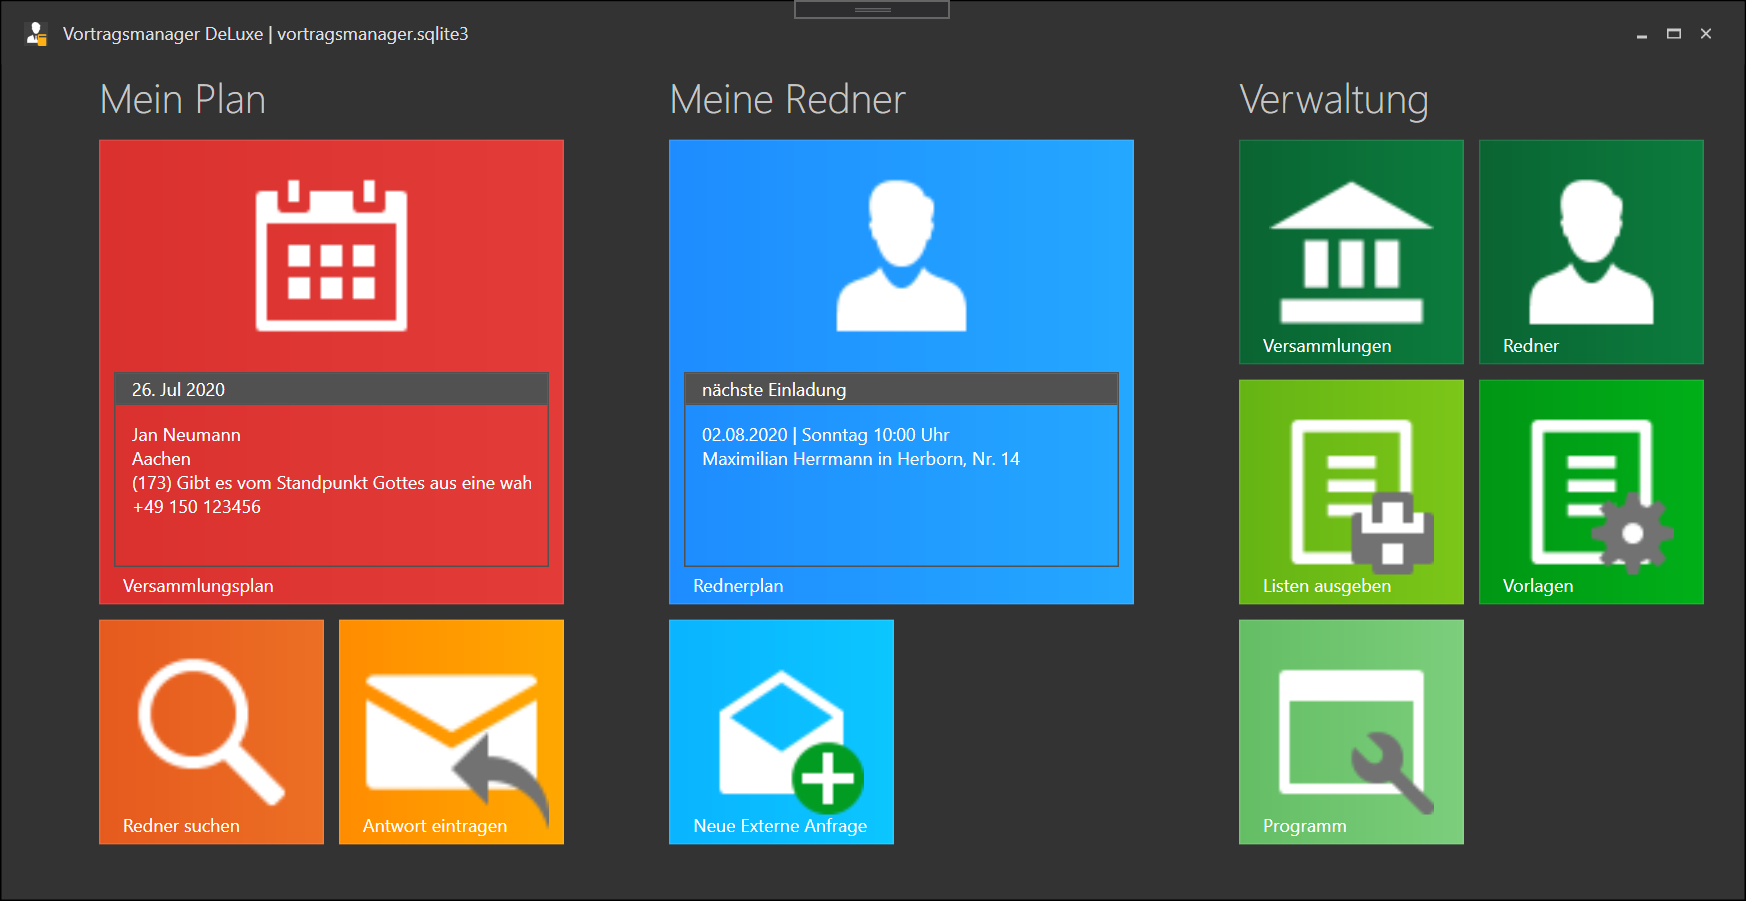
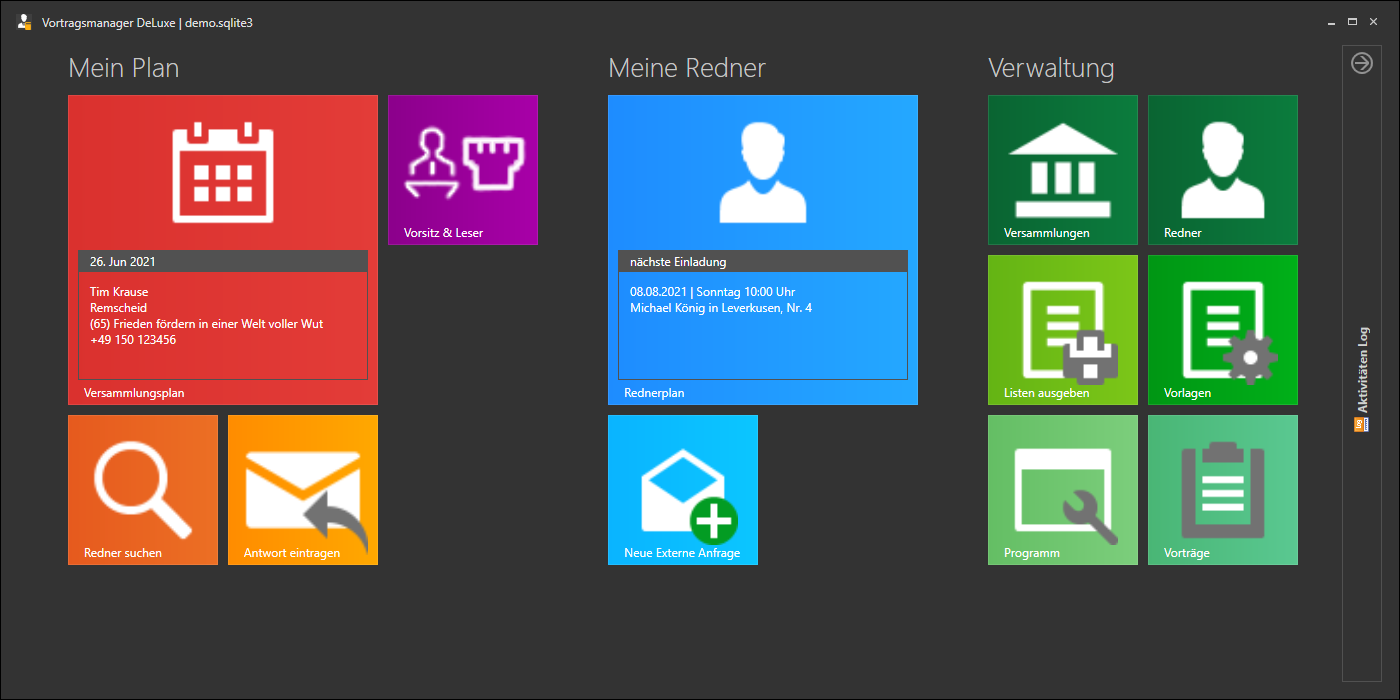
Dokumentation

diff --git a/docs/Versammlungen.md b/docs/Versammlungen.md
@@ -52,7 +52,7 @@ Zuteilungen der Vergangenheit werden dann abgeändert, der Vortrag bleibt weiter
 
 ### Rednerliste
 
-Die Redner können auch über das Hauptmenü [Redner](Redner.md) angezeigt und bearbeitet werden.
+Die Redner können auch direkt über das Hauptmenü [Redner](Redner.md) angezeigt und aufgerufen werden.
 
 Im rechten Bereich werden die angelegten Redner angezeigt. Dargestellt werden folgende Informationen:
 
@@ -60,49 +60,7 @@ Im rechten Bereich werden die angelegten Redner angezeigt. Dargestellt werden fo
 * Ältester / DAG (blau/rot) zeigt an ob er Ältester oder Dienstamtgehilfe ist
 * Darunter werden seine ausgearbeiteten Vortragsnummern angezeigt.
 
-Klickt man auf einen Redner, oder klickt auf die Schaltfläche "Neuen Redner anlegen" wechselt das Programm in die Detailansicht eines Redners, in der die Informationen zum Redner auch direkt bearbeitet werden können.
+Klickt man auf einen Redner, oder klickt auf die Schaltfläche "Neuen Redner anlegen" wechselt das Programm zu der Kachel "Redner" in der die Informationen zum Redner bearbeitet werden können.
 
-## Redner
-
-![Redner bearbeiten](images/verwaltung_21.png)
-
-In der Titelleiste wird der Name des Redners hervorgehoben, Mit einem Klick auf die Titelleiste wird zwischen der Übersicht- und der Detailansicht gewechselt.
-
-### Daten des Redner
-
-Zuerst können drei Informationen eingestellt werden:
-
-* Typ (Ältester oder Dienstamtgehilfe)
-* Aktiv (kann eingeladen werden oder nicht)
-* Einladen (Ja / Nein)
-
-    Möchte ich einen Vortragsredner zukünftig nicht mehr einladen, könnte ich natürlich auch den Status von Aktiv auf Inaktiv ändern. Für die Programmverwaltung hätte das den gleichen effekt. Bekomme ich aber später eine aktualisierte Rednerliste, ist es für mich evtl. nicht mehr so einfach nachvollziehbar ob der Redner der Liste der bei mir auf Inaktiv steht von seiner Seite aus Inaktiv war und jetzt wieder Vorträge halten kann, oder ob ich ihn damals auf "Inaktiv" gesetzt hatte. 
-    Über den Status Einladen Ja/Nein ist diese Information nachhaltiger erfasst.
-
-Danach werden die Kontaktinformationen des Redners erfasst. Der öffentliche Hinweis wird aktuell nicht genutzt, es ist aber gedacht ihn in Aushängen oder in Mailtexten mit ausgeben zu lassen.
-
-Die vertrauliche Notiz wird nur im Vortragsmanager selber angezeigt, aber in keinen Listen mit ausgegeben werden.
-
-### Redner Aktionen
-
-* Redner löschen
-
-* Redner verschieben
-
-    Hier kann ein Redner (z.B. nach Versammlungswechsel) einer anderen Versammlung zugeordnet werden. Seine Vortragseinladungen (historische und zukünftige) bleiben dabei gespeichert.
-
-### Vorträge
-
-Die Liste der Vorträge die ein Diener ausgearbeitet hat.
-
-* gewählten Vortrag löschen - Löscht den gewählten Vortrag aus der Liste
-
-* Neuen Vortrag hinzufügen - wähle einen Vortrag aus der Liste aus und füge ihn der Liste hinzu. Im Menü werden dir Vortragsnummer und Thema angezeigt.
-
-* Kommagetrennte Liste von Vorträgen - trage hier Komma-, Semikolon- oder mit Leerzeichen getrennt die Vortragsnummern ein die ein Redner hat und füge sie mit einem Klick alle gleichzeitig zu der Liste seiner ausgearbeiteten Vorträge hinzu.
-
-### Abwesenheiten
-
-UNDER CONSTRUCTION
 
 [zurück](Verwaltung.md){: .btn .btn--inverse}  [weiter](Redner.md){: .btn .btn--inverse}

diff --git a/docs/Startseite.md b/docs/Startseite.md
@@ -1,0 +1,50 @@
+---
+title: "Die Übersicht"
+---
+
+Startest du den Vortragsmanager wird dir die Zentrale Startseite des Programm angezeigt, von der du aus in alle Bereiche gehen kannst.
+Du hast 4 verschiedene Möglichkeiten wie du starten kannst.
+
+![Startseite](images/startseite_01.png)
+
+Jede Kachel führt zu einer Funktion im Programm. Die Kacheln sind in 3 Bereiche aufgeteilt:
+Links dir Kacheln in den rötlichen Tönen haben alle mit der Planung für deine eigene Versammlung zu tun. Sie tragen die Überschrift "Mein Plan"
+In der Mitte sind die Kacheln in den blautönen, für die Planung deiner Redner in anderen Versammlungen. Sie sind unter "Meine Redner" zusammengefasst.
+Rechts sind die Kacheln der Kategorie "Verwaltung" in den grünen Kacheln mit allen anderen Themen.
+
+## Mein Plan ##
+
+* [Versammlungsplan](MeinPlan.md): Die Rote Kachel ist der Hauptbereich für deine Planung. Hier siehst du deine aktuelle Planung und kannst sie auch pflegen.
+* [Redner suchen](MeinPlan.md#redner-suchen): Hier findest du die Vorträge und Redner die du schon länger nicht mehr gehört hast und kannst Einladungsmails generieren.
+* [Antwort eintragen](MeinPlan.md#antwort-eintragen): Hat jemand auf deine Einladung geantwortet, trägst du hier die Antwort ein. Dein Versammlungsplan wird dann aktualisiert.
+* [Vorsitz & Leser](WeiterePlannungen.md): Da die Planung von Vorsitz & Leser meistens auch dem Vortragskoordinator zufällt, kannst hier diese Planung vornehmen.
+ 
+## Meine Redner ##
+
+* [Rednerplan](MeineRedner.md): Hier siehst du die Vortragstermine aller deiner Redner
+* [Neue Externe Anfrage](ExterneAnfrage.md): Fragt eine andere Versammlung einen Redner an, kannst du hier prüfen ob er zur Verfügung steht und in deine Planung eintragen.
+
+## Verwaltung ##
+
+* [Versammlungen](Versammlungen.md): Verwaltung aller Versammlungen und Kontaktdaten der Koordinatoren mit denen du Redner austauschen willst.
+* [Redner](Redner.md): Verwaltung der Redner in den Versammlungen mit den Vorträgen die sie halten.
+* [Listen ausgeben](ListenAusgeben.md): Diverse Listen, wie einen Aushang deiner Planung, Rednerlisten zum austausch mit anderen Koordinatoren, etc.
+* [Vorlagen](Vorlagen.md): Hier werden die Mailvorlagen angepasst, z.B. deine Signatur
+* [Programm](ProgrammEinstellungen.md): Allgemeine Programmeinstellungen
+* [Vorträge](Vortragsthemen.md): Liste aller Vorträge, die Themen können hier angepasst werden.
+
+# Unterseiten #
+
+Mit einem Klick auf die Kachel kommst du in den Anzeige- oder Bearbeitungsmodus des jeweiligen Themas.
+Die Unterseiten haben alle das gleiche Navigations-Menü im oberen Bereich
+
+![Navigation](images/navigation_01.png)
+
+* Der Pfeil nach links bringt dich zurück zum letzten Bildschirm, meistens ist das die Startseite.
+* Daneben steht der Name des aktuellen Fenster in dem du dich gerade befindest.
+* im rechten Bereich hast du 5 Verknüpfungen auf Kacheln die du oft benötigst
+** Startseite (orange) bringt dich immer zurück zur Startansicht
+** "Mein Plan", "Meine Redner", "Redner suchen", "Versammlungen" bringt dich zur jeweiligen Kachel
+
+
+[zurück](Initialisierung.md){: .btn .btn--inverse}  [weiter](MeinPlan.md){: .btn .btn--inverse}

diff --git a/README.md b/README.md
@@ -5,20 +5,25 @@ war ich erstmal aufgeschmissen,
 denn das umstellen meiner Planung auf Excel-Tabellen hat gar nicht geklappt.  
 Auch andere Programme konnten meine Wünsche nicht so recht erfüllen.
 Deshalb habe ich (in erster Linie für mich selbst) angefangen dieses Programm zu schreiben. 
-Die Zielsetzung ist:
-* Suche nach Rednern die lange nicht bei mir waren
-* Suche nach Vorträgen die schon länger nicht gehört wurden
-   Wie kann ich sicherstellen das ich den Vortrag nicht gerade schon gehört habe, oder in der Zukunft bereits eingeplannt ist
-* Übersicht über meine Jahresplannung (welche Termine sind noch frei)
-* Verwaltung meiner Redner
-* Die Kommunikation mit den anderen Koordinatoren soll per Mail erfolgen (am besten jwpub), 
-deshalb sollen Vorgänge eine vereinfachte Möglichkeit haben die Informationen in das Mailsystem zu kopieren.
-* Mehrere Redner und Vorträge auf einmal per Mail anfragen
-   Diese Anfragen speichern, damit ich nicht Termine oder Themen doppelt anfrage.
-* Optional wäre es natürlich schön wenn möglichst viele Koordinatoren das Programm benutzen und in die Mail ein Code eingefügt wird, 
-denn das Programm auslesen kann.
+
+## Screenshots ##
+<div class="gallery gallery-cols-3">
+    <figure>
+        <img src="docs/images/startseite_01.png" alt="Image 1">
+        <figcaption>Image 1</figcaption>
+    </figure>
+    <figure>
+        <a href="docs/images/startseite_01.png"><img src="docs/images/startseite_01.png" alt="Image 2">
+        <figcaption>Image 2</figcaption></a>
+    </figure>
+    <figure>
+        <img src="docs/images/startseite_01.png" alt="">
+    </figure>
+</div>
 
 ## Entwicklungsstand ##
+
+![Startseite](docs/images/startseite_01.png)
 
 Das Programm ist bei mir persönlich für meine Vortragsplanung seit 2019 im Einsatz. Inzwischen sind alle Funktionen die ich benötige im Programm eingebunden.
 Aufgrund unterschiedlicher Arbeitsweisen und Anforderungen an so einem Programm kann es natürlich sein das eine Funktion die dir wichtig wäre nicht vorhanden ist.

diff --git a/docs/MeinPlan.md b/docs/MeinPlan.md
@@ -210,4 +210,4 @@ Außerdem hast du hier die Möglichkeit den Original-Mailtext der generiert wurd
 
 Dieser Dialog kann auch über "Mein Plan" aufgerufen werden. Wählt man hier eine offene Anfrage und dann über das Kontextmenü "bearbeiten" aus, wird der gleiche Dialog geöffnet, aber nur die relevante Anfrage angezeigt.
 
-[zurück](Installation.md){: .btn .btn--inverse}  [weiter](AntwortEintragen.md){: .btn .btn--inverse}
+[zurück](Startseite.md){: .btn .btn--inverse}  [weiter](AntwortEintragen.md){: .btn .btn--inverse}

diff --git a/docs/Initialisierung.md b/docs/Initialisierung.md
@@ -85,4 +85,4 @@ Pflichtfelder sind Datum, Rednername und Vortragsnummer.
 Alternativ kann im Feld mit dem Versammlungsname das Wort "Urlaub" eingetragen, dann wird die Woche für den Redner als "Abwesend" markiert.
 
 
-[zurück](Installation.md){: .btn .btn--inverse}  [weiter](MeinPlan.md){: .btn .btn--inverse}
+[zurück](Installation.md){: .btn .btn--inverse}  [weiter](Startseite.md){: .btn .btn--inverse}
